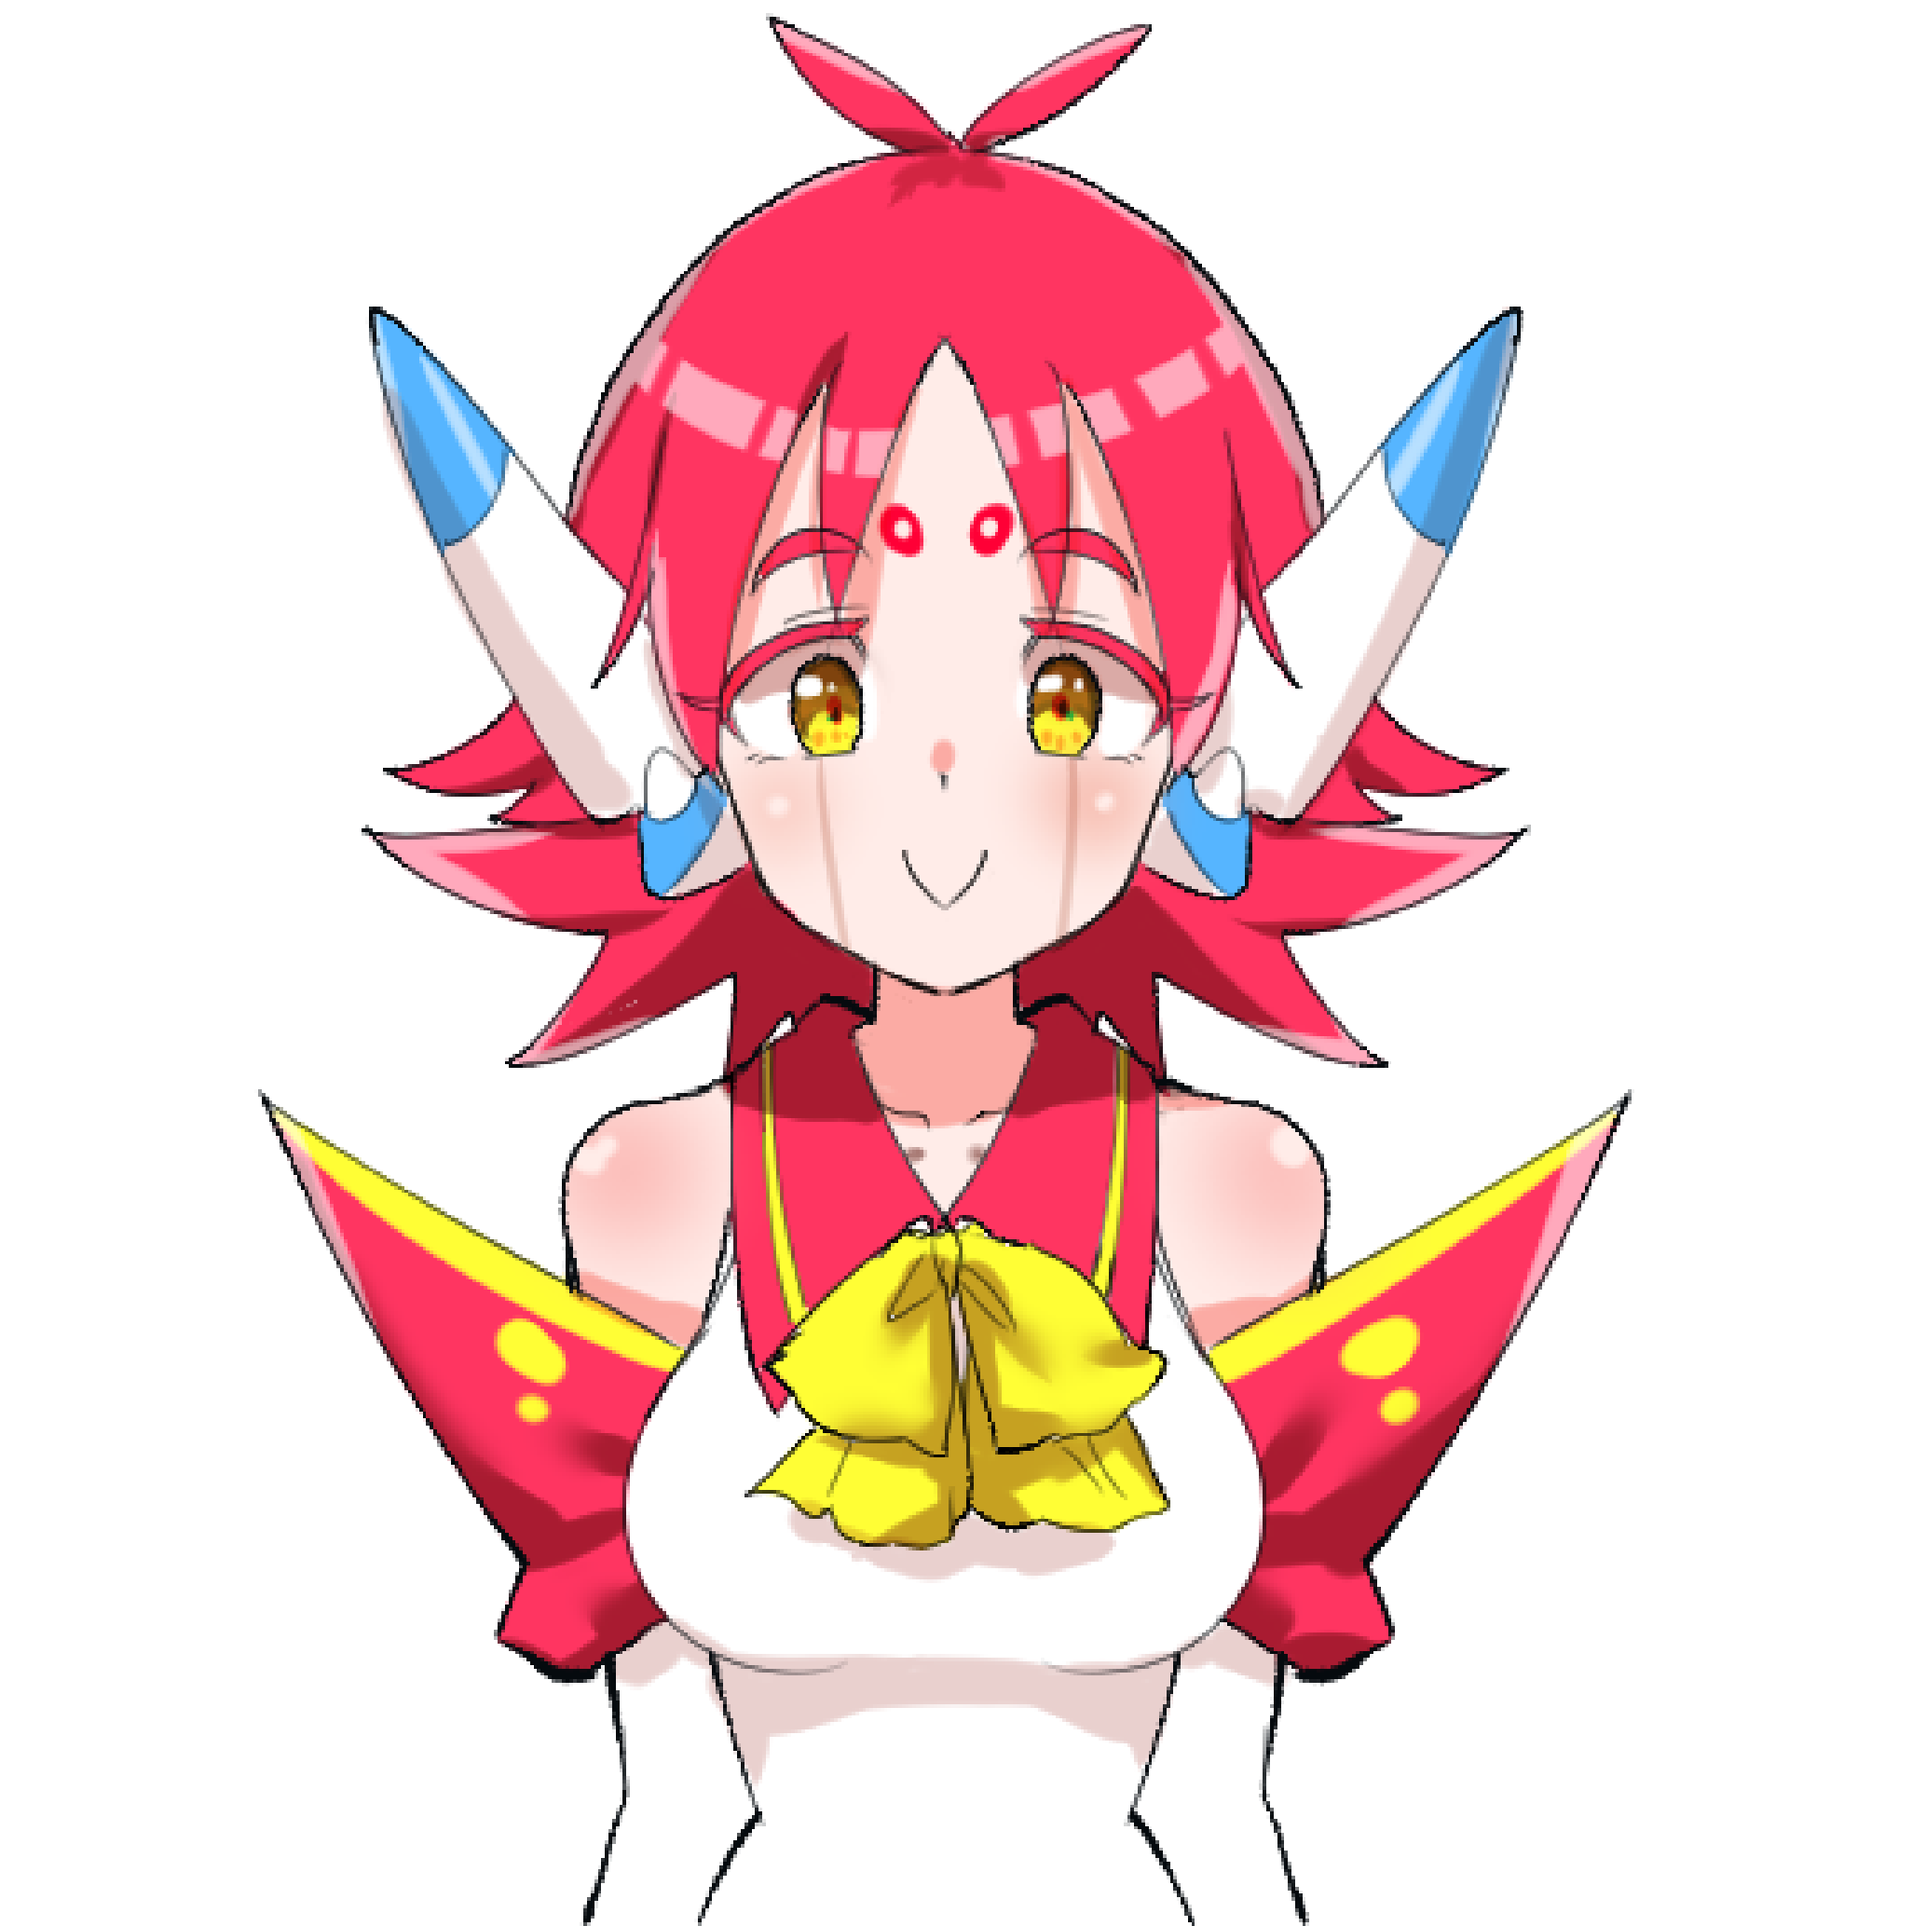
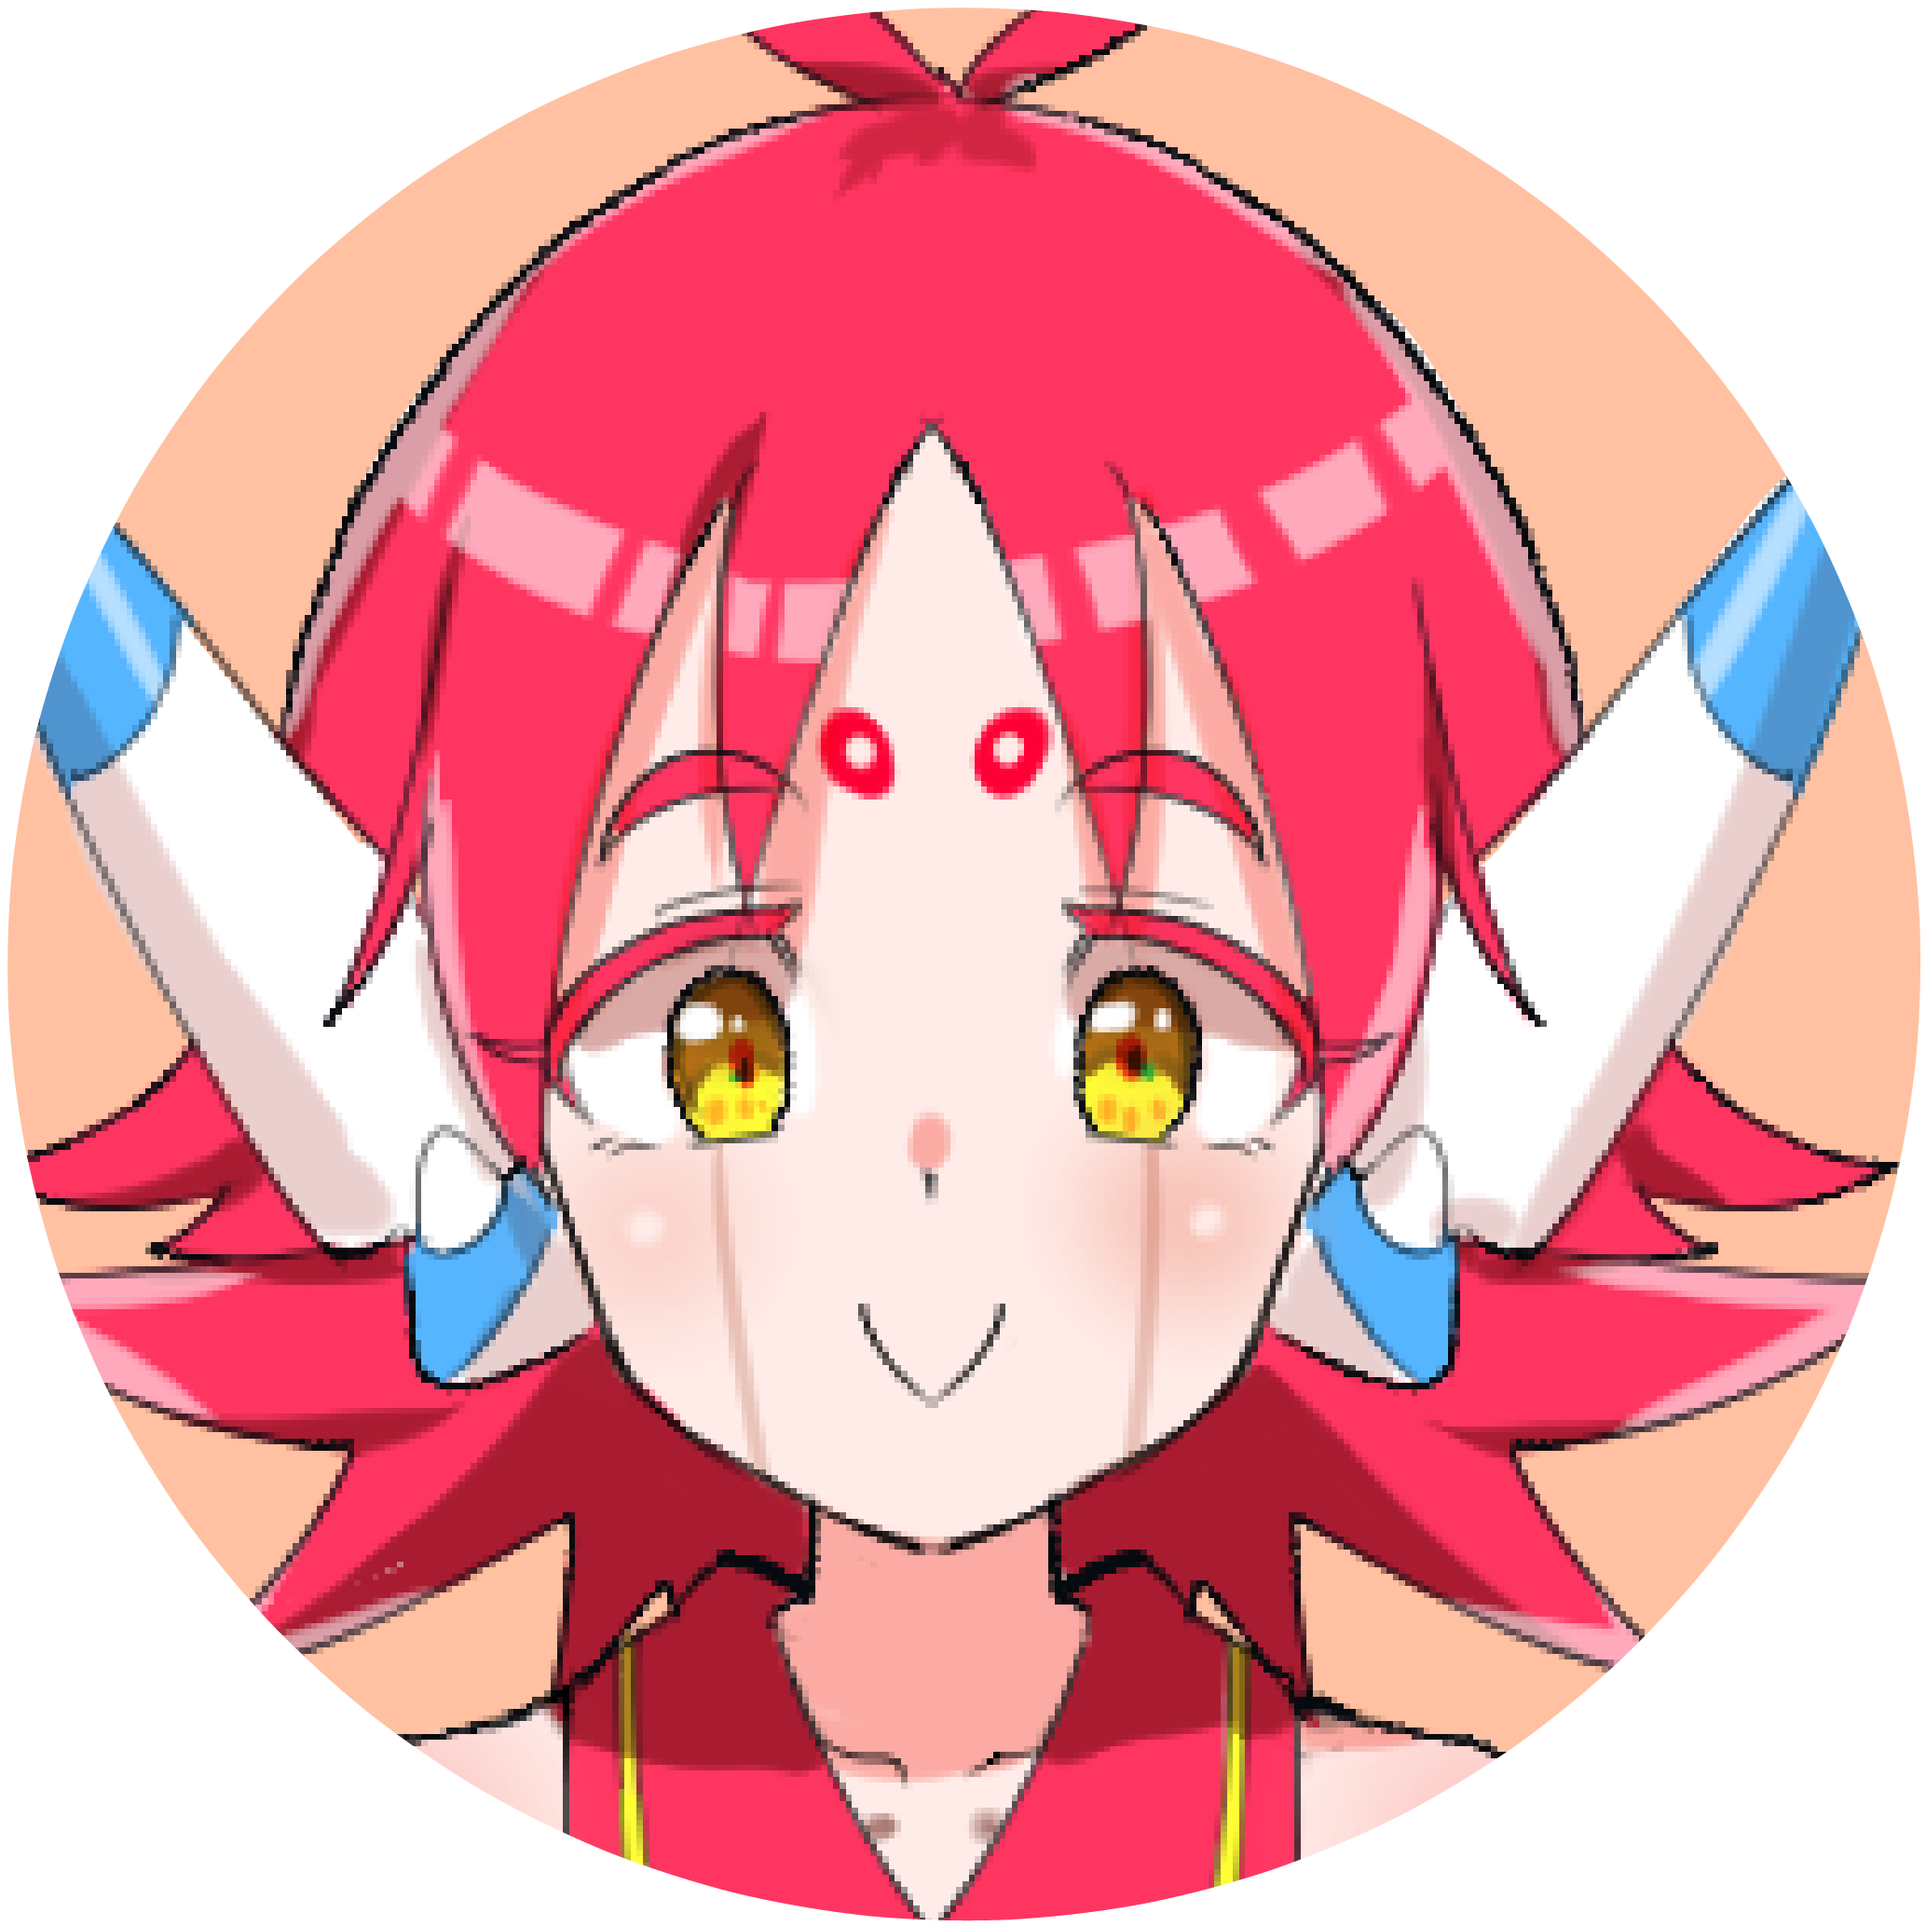
Update bot image

diff --git a/lib/dialogue_screen.dart b/lib/dialogue_screen.dart
@@ -107,7 +107,7 @@ class ChatMessage extends StatelessWidget {
     return <Widget>[
       Container(
         margin: EdgeInsets.only(right: 16.0),
-        child: CircleAvatar(child: Image.asset("img/bot.jpg")),
+        child: CircleAvatar(child: Image.asset("img/bot.png")),
       ),
       Expanded(
           child: Column(
